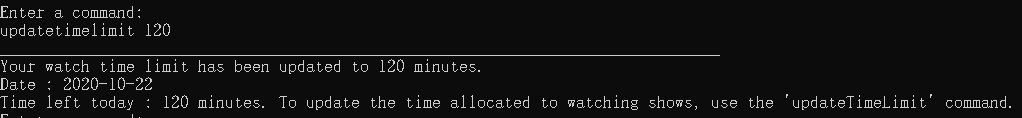
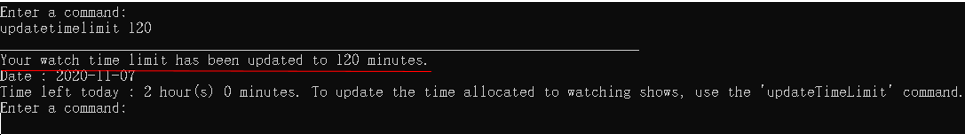
Slight changes to updatetimelimit in UG

Changed region(s): [[0.0, 0.0, 1.0, 1.0], [0.0, 0.0508, 0.1863, 0.3051]]

diff --git a/docs/UserGuide.md b/docs/UserGuide.md
@@ -45,7 +45,8 @@ Text that are in a `monospace font` represent either the user input or the progr
 
 >  **[NOTE]**
 >  The notes section contains additional information that may be helpful to you if you encounter any issues.
->
+
+
 ## 2. Quick Start
 
 Prerequisite: Ensure that you have Java 11 installed in your Computer.
@@ -510,21 +511,40 @@ The `updatetimelimit` command updates your current watch time limit.
 
  Format:
   `updatetimelimit <DURATION LIMIT> `
+ 
+  Example of usage:
+  Let's say you want to set your daily watch time limit to 120 minutes, or 2 hours. If you have not set your watch time limit yet, your application will look like this on startup: <br>
+  <img src = "images/updatetimelimitbefore.PNG" width = "600"> <br> &nbsp;
   
+  Note the prompt above the red line, which signals to the user that the time limit has not been set yet.
+  
+  Now, we input `updatetimelimit 120` into the application. which updates your daily limit to 120 minutes.
+ 
+ Expected outcome:
+  
+ <img src = "images/updatetimelimit.PNG" width = "800"> 
+
+ &nbsp;
+ 
  > **[NOTE]**
+ > * Your set duration will be reset to zero after the end of each day.
  >
  > * `<DURATION LIMIT>` should be entered in minutes. Your set duration will be stored until the next day.
  >
  > * If you have watched a show before updating your time limit, it will automatically be taken into account after you enter the `updatetimelimit` command.
+
+ As seen from the expected outcome, you now have a limit of 2 hours to spend on watching shows.To use the allocated limit, use the [watch command](#4ma-watch---watch-a-show-in-your-list) above.
+
+If you have **used up** your allocated time, a prompt will be displayed to you as seen below:<br> 
+ <img src = "images/useduptimelimit.PNG" width = "800"> <br>  &nbsp;
+
+If you have **exceeded** your allocated time, a prompt will be displayed to you as seen below:<br> 
+ <img src = "images/exceededlimit.PNG" width = "800"> <br>  &nbsp;
  
- Example of usage:
- `updatetimelimit 120 `
- 
- Expected outcome:
-  
- <img src = "images/updatetimelimit.PNG" width = "800">
-  
- &nbsp;
+The underlined portion shows the prompt to the user, and the circled portion details the amount of time that the user has exceeded.
+
+ > **[NOTE]**
+ > * To allocate more time for yourself, simply use the `updatetimelimit` command again with a longer duration limit.
 
 ### 4.n. `search` - search a show in the watchlist  
 
